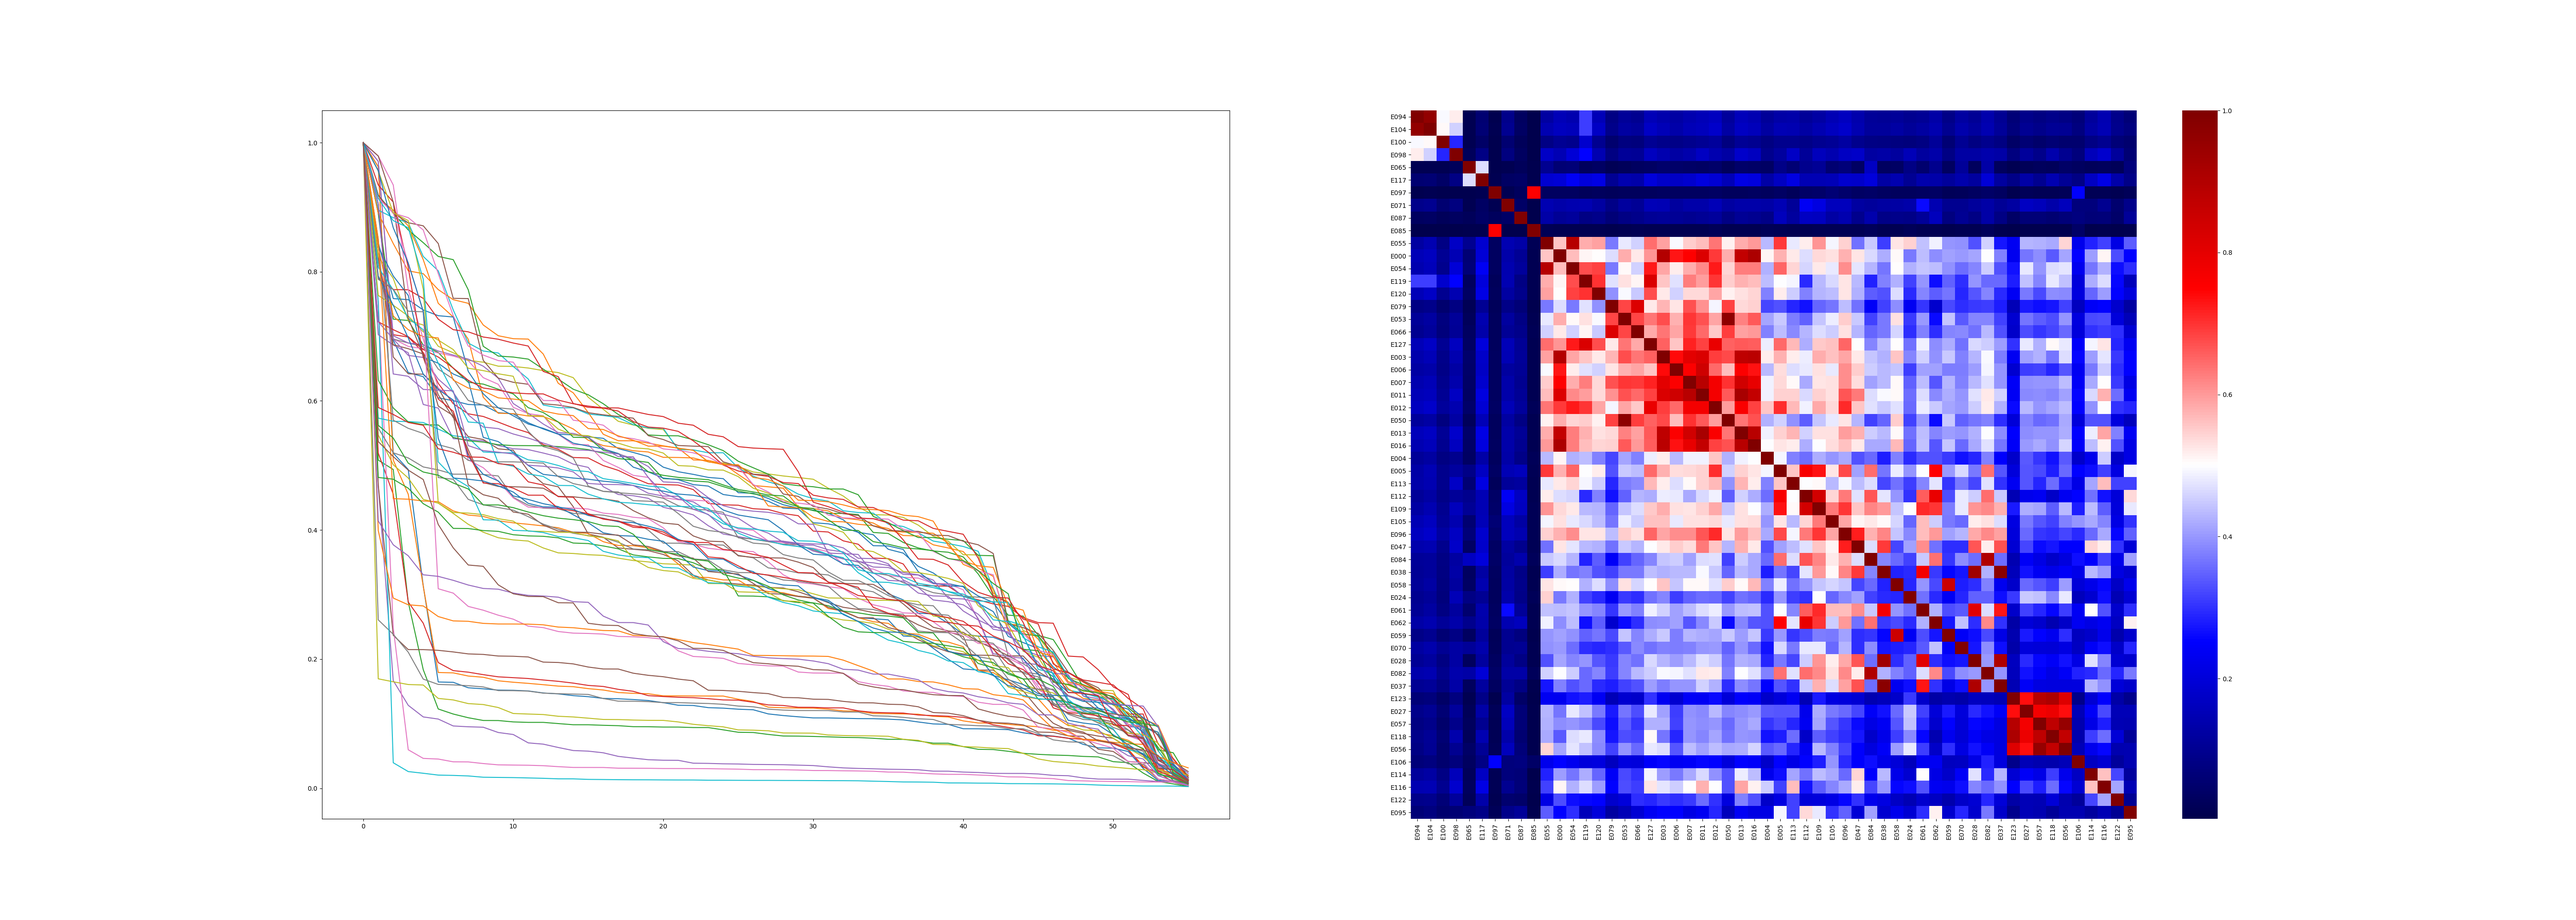
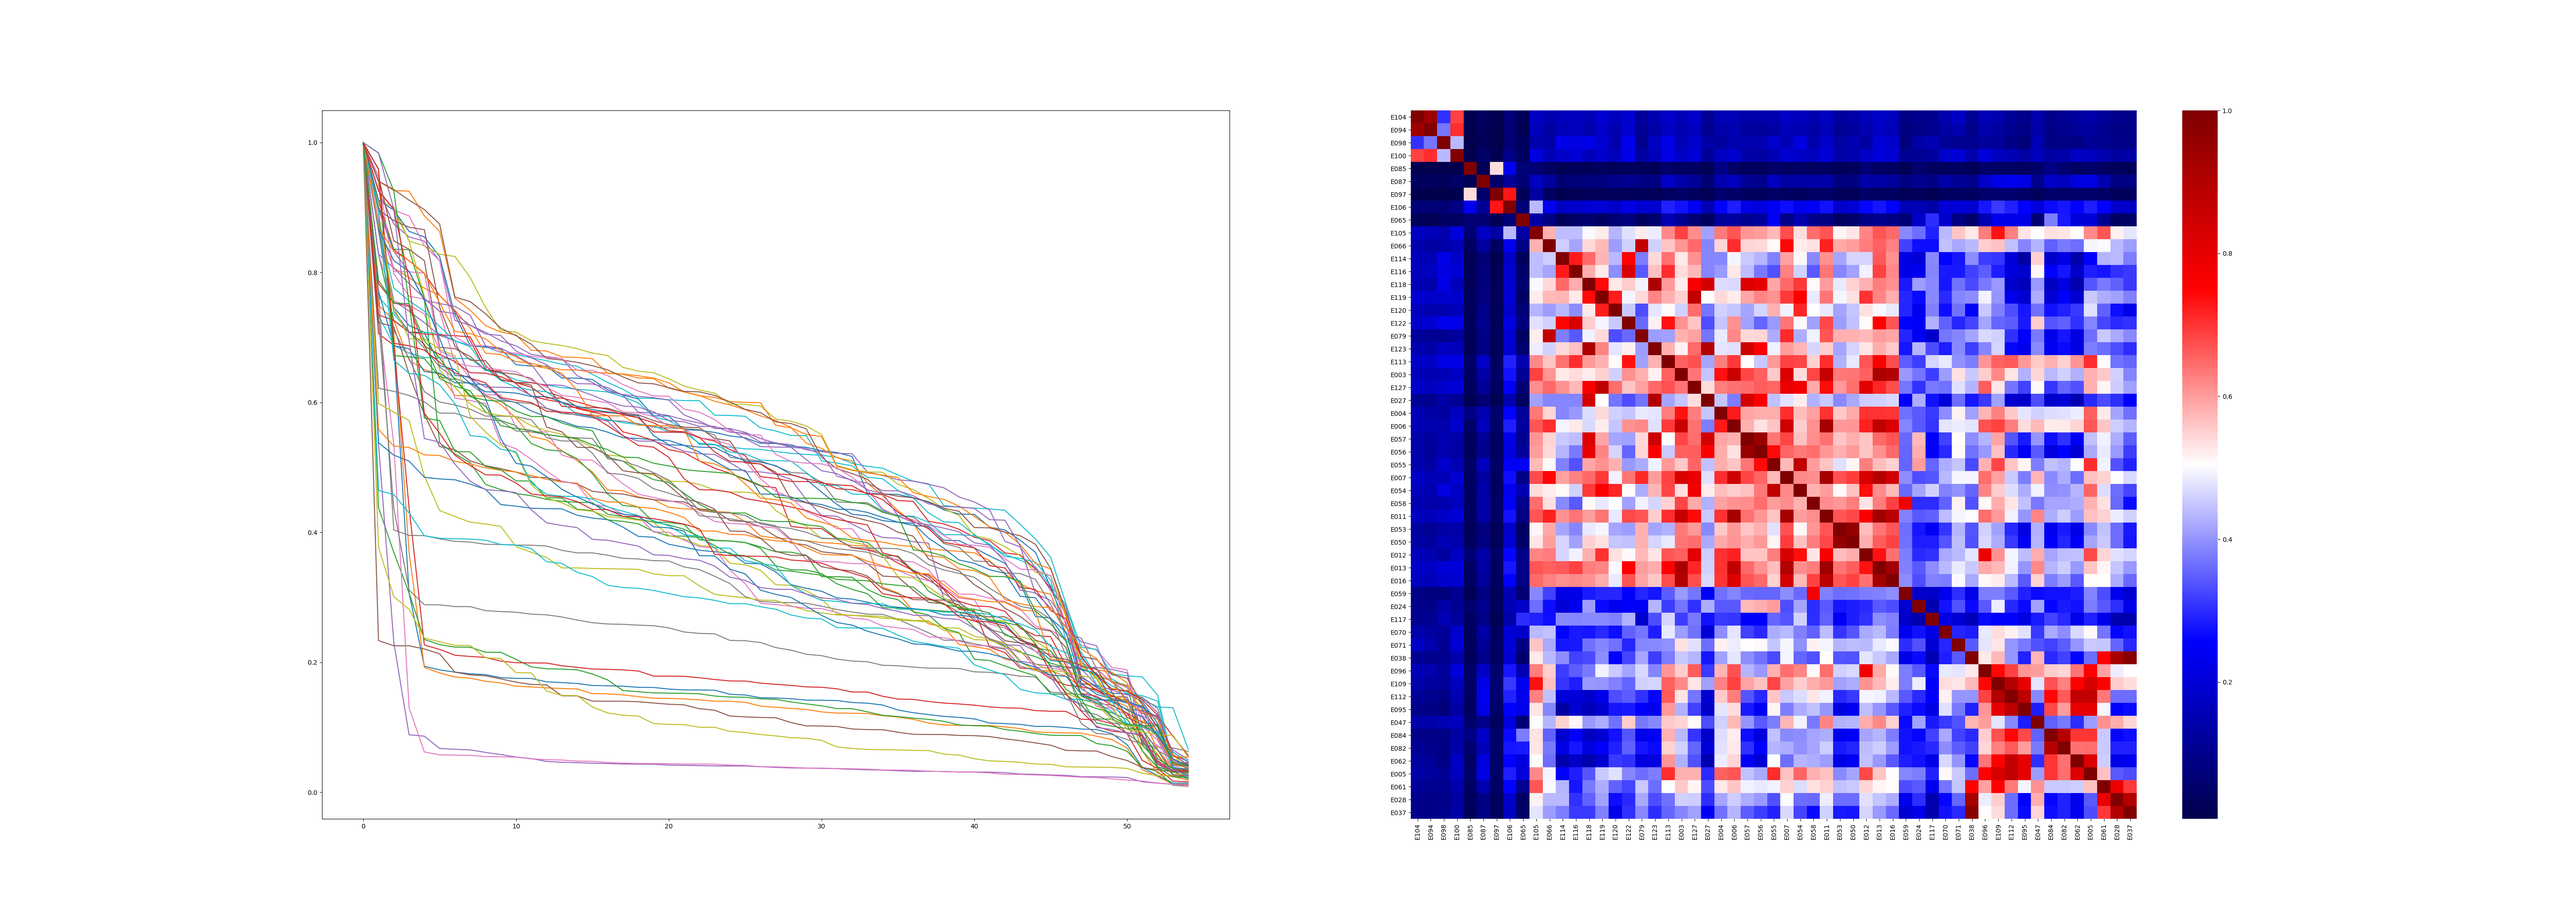
Selected training genes only for correlation

Changed region(s): [[0.5312, 0.124, 0.8438, 0.93], [0.125, 0.155, 0.4688, 0.868]]

diff --git a/process.py b/process.py
@@ -1,8 +1,6 @@
-import csv
 import numpy as np
 import matplotlib.pyplot as plt
 import seaborn as sn
-import scipy
 import scipy.cluster.hierarchy as sch
 import pandas as pd
 
@@ -43,21 +41,21 @@ def readPd(root):
 
 
 def get_train_genes(fname):
-    df = pd.read_csv(fname)
+    df = pd.read_csv(fname, dtype=str)
     gene_id = df.iloc[:, 0].astype(str)
     return pd.unique(gene_id)
 
 
 train_root = 'data/E003/classification/train.csv'
 gene_id = get_train_genes(train_root)
-gene_id = 'ENSG00000' + gene_id[:]
-print(gene_id)
 path = '57epigenomes.RPKM.pc'
 
-lst = readPd(path)[1:-1]
-train_pd = lst[gene_id]
+lst = readPd(path)[2:-1]
+smallest_key = len(min(gene_id, key=len))
+bool_pd = np.isin(lst.columns.str[-smallest_key:], gene_id)
+train_pd = lst.T[bool_pd]
 
-corr_pd = cluster_corr(train_pd.T.corr())
+corr_pd = cluster_corr(train_pd.corr())
 corr = np.array(corr_pd)
 np.savez("correlation_matrix.npz", corr)
 corr_pd.to_csv("correlation_pd.csv")
